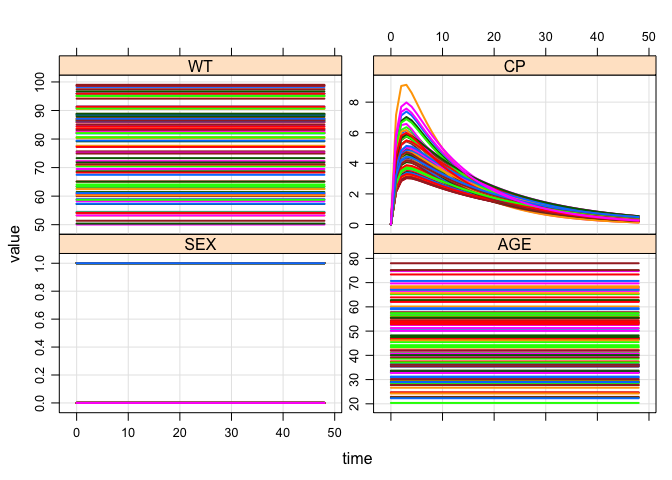
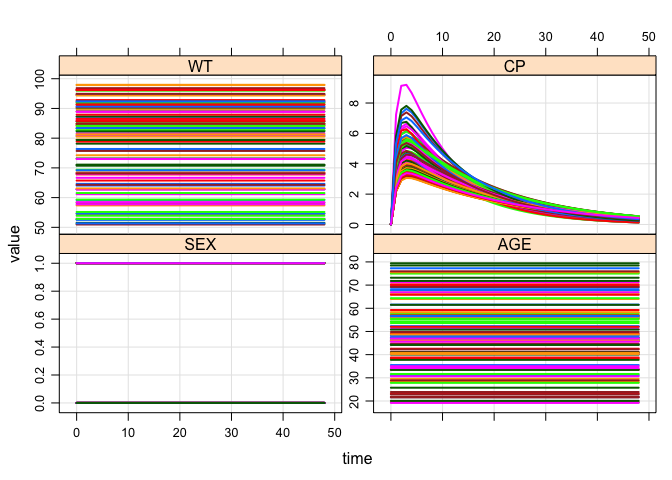
link to dmutate

Changed region(s): [[0.125, 0.5312, 0.9688, 0.8438], [0.0312, 0.125, 0.5312, 0.5], [0.5625, 0.1562, 0.9688, 0.4688]]

diff --git a/misc_demo/covset.md b/misc_demo/covset.md
@@ -11,6 +11,8 @@ See `$ENV` for covariate simulation from bounded parametric distributions
 -   `a`, `b`, `d`, `f` are special formulae that work with `mutate_random` package
 -   We create sets of covariates (`covset()`) with these different formulae
 -   When we call `idata_set`, we can invoke a `covset` and those covariates get added
+-   The `covset` stuff (with formula parsing) is located here:
+    -   <https://github.com/kylebmetrum/dmutate>
 
 ``` r
 code <- '
@@ -76,12 +78,12 @@ mod %>%
 
     . $idata
     .   ID GROUP       WT      AGE SEX     FLAG
-    . 1  1     1 56.47623 54.82734   1 37.32024
-    . 2  2     0 62.08936 56.88345   1 29.29350
-    . 3  3     1 89.37275 61.02407   0 37.32024
-    . 4  4     0 81.34116 54.96600   0 29.29350
-    . 5  5     1 78.42925 76.58212   1 37.32024
-    . 6  6     0 96.62674 50.70584   1 29.29350
+    . 1  1     1 97.06778 38.22576   1 28.24057
+    . 2  2     0 93.41336 34.92769   1 33.62317
+    . 3  3     1 59.34391 54.96774   1 28.24057
+    . 4  4     0 76.94537 38.46215   1 33.62317
+    . 5  5     1 88.71913 61.58669   0 28.24057
+    . 6  6     0 50.48138 43.57346   0 33.62317
 
 Working with `covset`
 ---------------------
@@ -121,16 +123,16 @@ idata %>% mrgsolve:::mutate_random(cov2,envir=e)
     . # A tibble: 100 × 6
     .       ID GROUP      AGE     FLAG       WT   SEX
     .    <int> <dbl>    <dbl>    <dbl>    <dbl> <dbl>
-    . 1      1     1 59.17934 37.40704 58.84396     1
-    . 2      2     0 55.64413 30.08119 90.45238     0
-    . 3      3     1 41.18411 37.40704 53.64815     1
-    . 4      4     0 59.37677 30.08119 83.37265     1
-    . 5      5     1 53.52646 37.40704 98.46003     1
-    . 6      6     0 53.32454 30.08119 89.80928     1
-    . 7      7     1 31.04367 37.40704 81.78208     1
-    . 8      8     0 31.35138 30.08119 83.97577     0
-    . 9      9     1 75.54843 37.40704 59.49527     1
-    . 10    10     0 32.53747 30.08119 85.11012     0
+    . 1      1     1 56.89700 35.08263 90.49052     1
+    . 2      2     0 20.52915 36.18199 85.44064     0
+    . 3      3     1 20.39806 35.08263 51.62502     0
+    . 4      4     0 23.01154 36.18199 83.46135     0
+    . 5      5     1 34.20830 35.08263 61.99369     1
+    . 6      6     0 67.34234 36.18199 57.98716     1
+    . 7      7     1 29.96251 35.08263 88.32505     0
+    . 8      8     0 25.26993 36.18199 50.81628     1
+    . 9      9     1 66.45105 35.08263 64.45956     0
+    . 10    10     0 62.28655 36.18199 59.65328     1
     . # ... with 90 more rows
 
 Other ways to use `$ENV`
